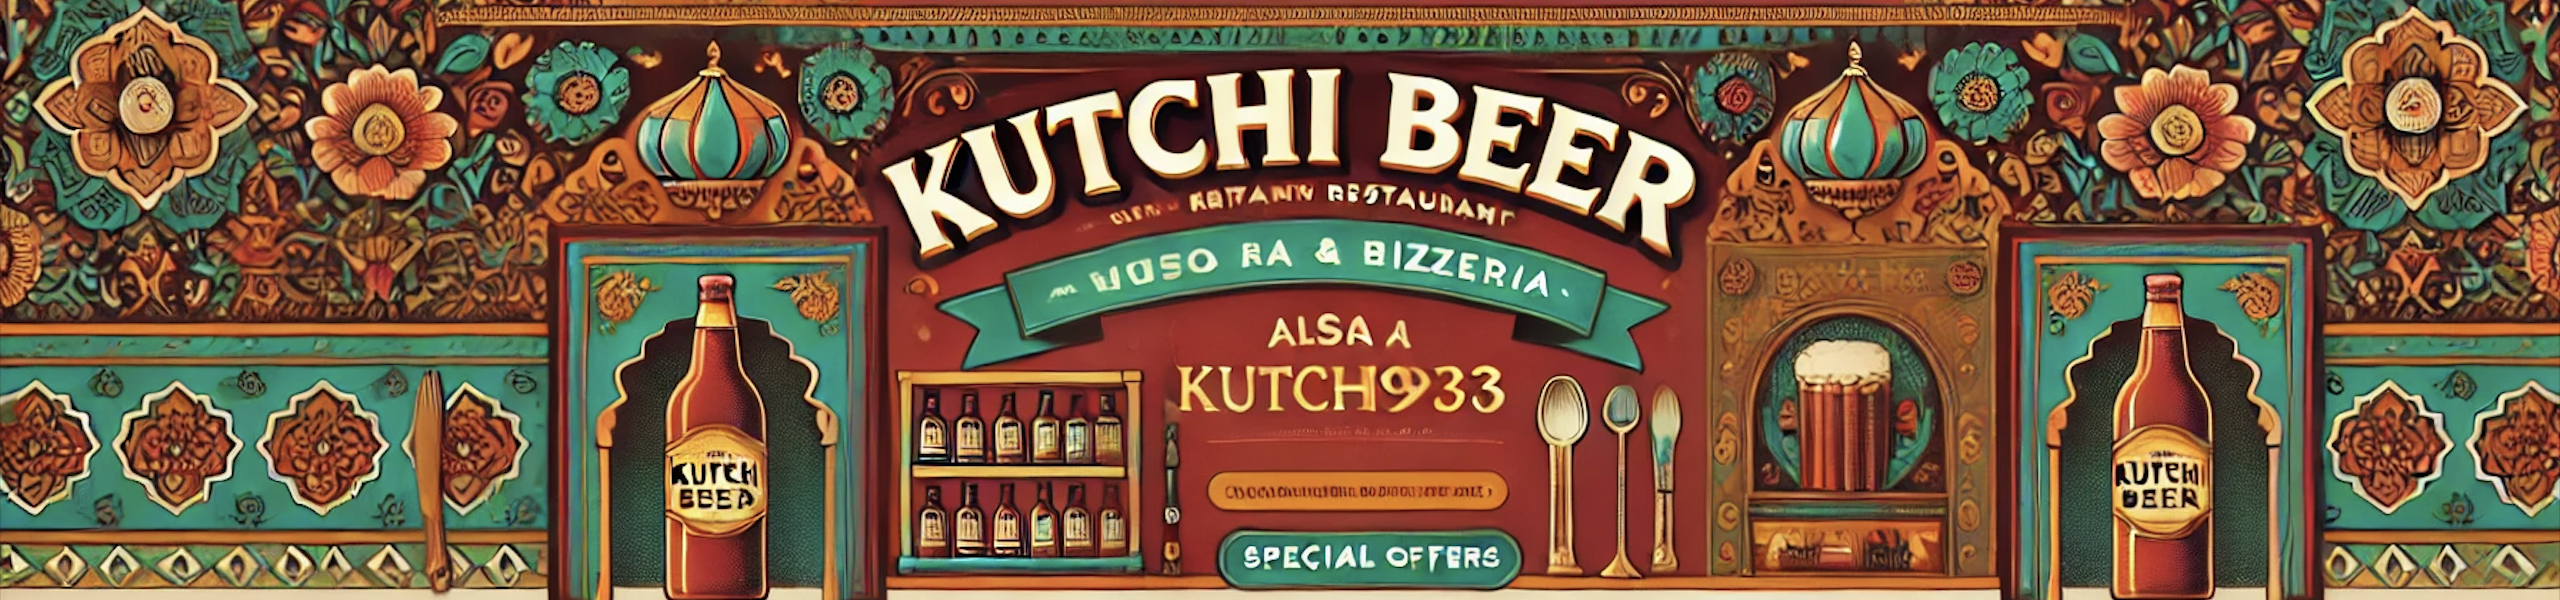
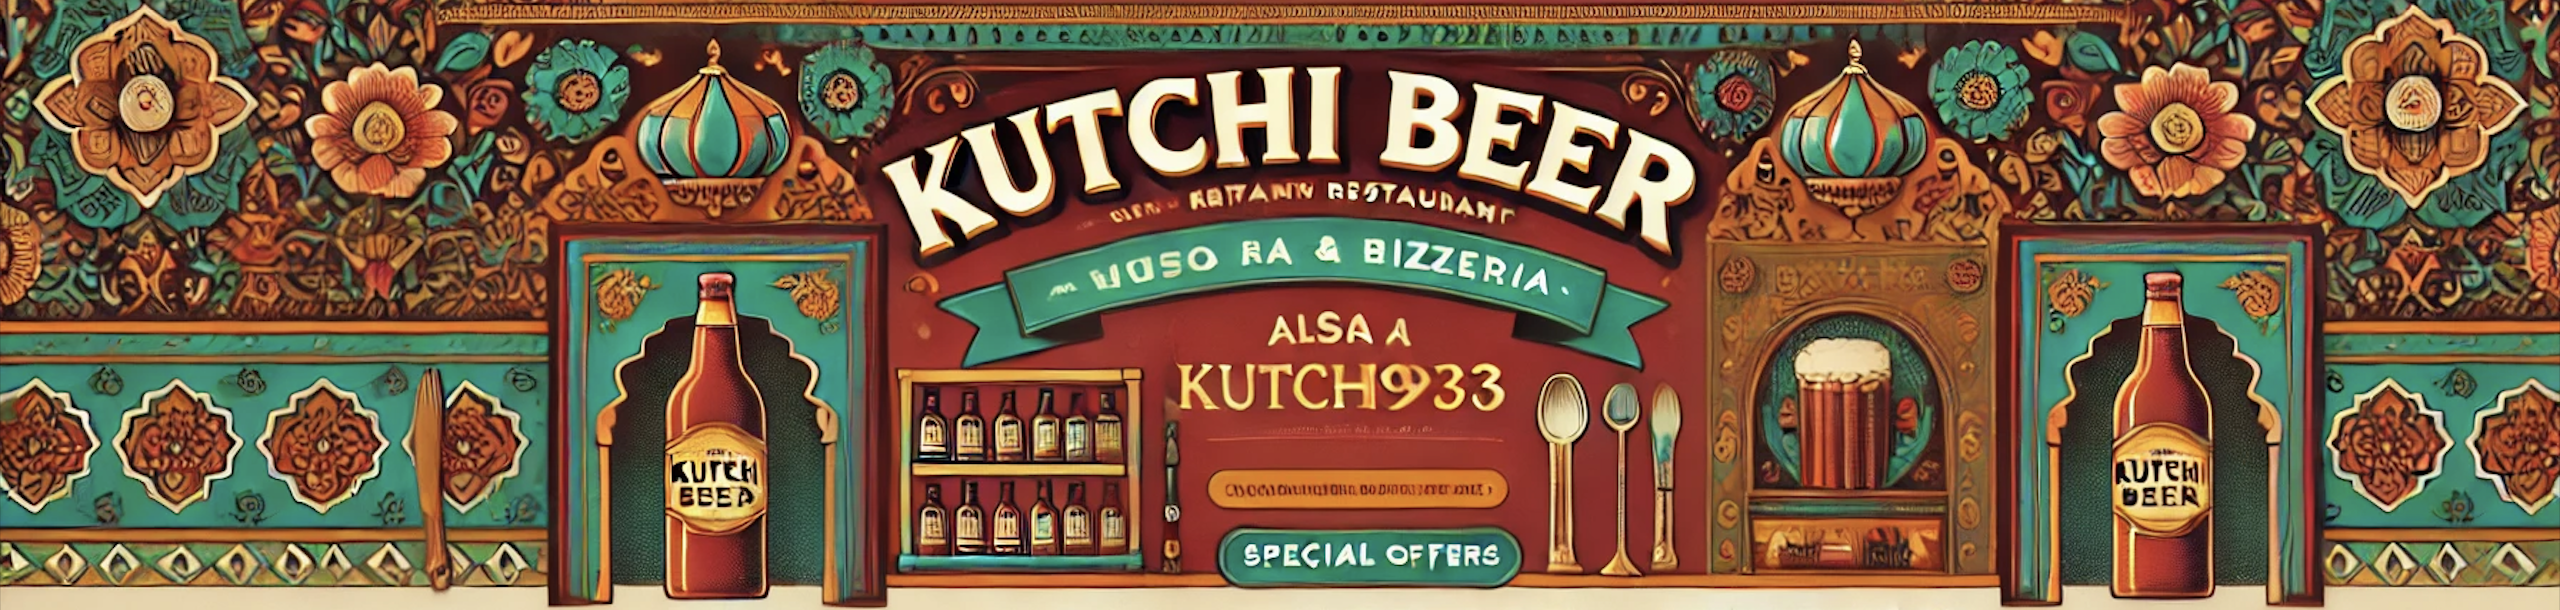
hehehe

diff --git a/index.html b/index.html
@@ -5,7 +5,7 @@
     <meta charset="UTF-8">
     <meta name="viewport" content="width=device-width, initial-scale=1.0">
     <meta http-equiv="X-UA-Compatible" content="ie=edge">
-    <title>Katchi Beer</title>
+    <title>Kutchi Beer</title>
     <!-- styles + bootstrap styles -->
     <link rel="stylesheet" href="https://stackpath.bootstrapcdn.com/bootstrap/3.4.1/css/bootstrap.min.css">
     <link rel="stylesheet" href="source/css/styles.css">

diff --git a/source/html/bakery.html b/source/html/bakery.html
@@ -5,7 +5,7 @@
     <meta charset="UTF-8">
     <meta name="viewport" content="width=device-width, initial-scale=1.0">
     <meta http-equiv="X-UA-Compatible" content="ie=edge">
-    <title>Katchi Beer</title>
+    <title>Kutchi Beer</title>
     <!-- styles + bootstrap styles -->
     <link rel="stylesheet" href="https://stackpath.bootstrapcdn.com/bootstrap/3.4.1/css/bootstrap.min.css">
     <link rel="stylesheet" href="../css/styles.css">

diff --git a/source/html/bar.html b/source/html/bar.html
@@ -5,7 +5,7 @@
     <meta charset="UTF-8">
     <meta name="viewport" content="width=device-width, initial-scale=1.0">
     <meta http-equiv="X-UA-Compatible" content="ie=edge">
-    <title>Katchi Beer</title>
+    <title>Kutchi Beer</title>
     <!-- styles + bootstrap styles -->
     <link rel="stylesheet" href="https://stackpath.bootstrapcdn.com/bootstrap/3.4.1/css/bootstrap.min.css">
     <link rel="stylesheet" href="../css/styles.css">

diff --git a/source/html/order.html b/source/html/order.html
@@ -5,7 +5,7 @@
     <meta charset="UTF-8">
     <meta name="viewport" content="width=device-width, initial-scale=1.0">
     <meta http-equiv="X-UA-Compatible" content="ie=edge">
-    <title>Katchi Beer</title>
+    <title>Kutchi Beer</title>
     <!-- styles + bootstrap styles -->
     <link rel="stylesheet" href="https://stackpath.bootstrapcdn.com/bootstrap/3.4.1/css/bootstrap.min.css">
     <link rel="stylesheet" href="../css/styles.css">

diff --git a/source/html/pizza.html b/source/html/pizza.html
@@ -5,7 +5,7 @@
     <meta charset="UTF-8">
     <meta name="viewport" content="width=device-width, initial-scale=1.0">
     <meta http-equiv="X-UA-Compatible" content="ie=edge">
-    <title>Katchi Beer</title>
+    <title>Kutchi Beer</title>
     <!-- styles + bootstrap styles -->
     <link rel="stylesheet" href="https://stackpath.bootstrapcdn.com/bootstrap/3.4.1/css/bootstrap.min.css">
     <link rel="stylesheet" href="../css/styles.css">

diff --git a/source/html/rest.html b/source/html/rest.html
@@ -5,7 +5,7 @@
     <meta charset="UTF-8">
     <meta name="viewport" content="width=device-width, initial-scale=1.0">
     <meta http-equiv="X-UA-Compatible" content="ie=edge">
-    <title>Katchi Beer</title>
+    <title>Kutchi Beer</title>
     <!-- styles + bootstrap styles -->
     <link rel="stylesheet" href="https://stackpath.bootstrapcdn.com/bootstrap/3.4.1/css/bootstrap.min.css">
     <link rel="stylesheet" href="../css/styles.css">

diff --git a/README.md b/README.md
@@ -1,1 +1,1 @@
-# Katchi-Beer
+# Kutchi-Beer
